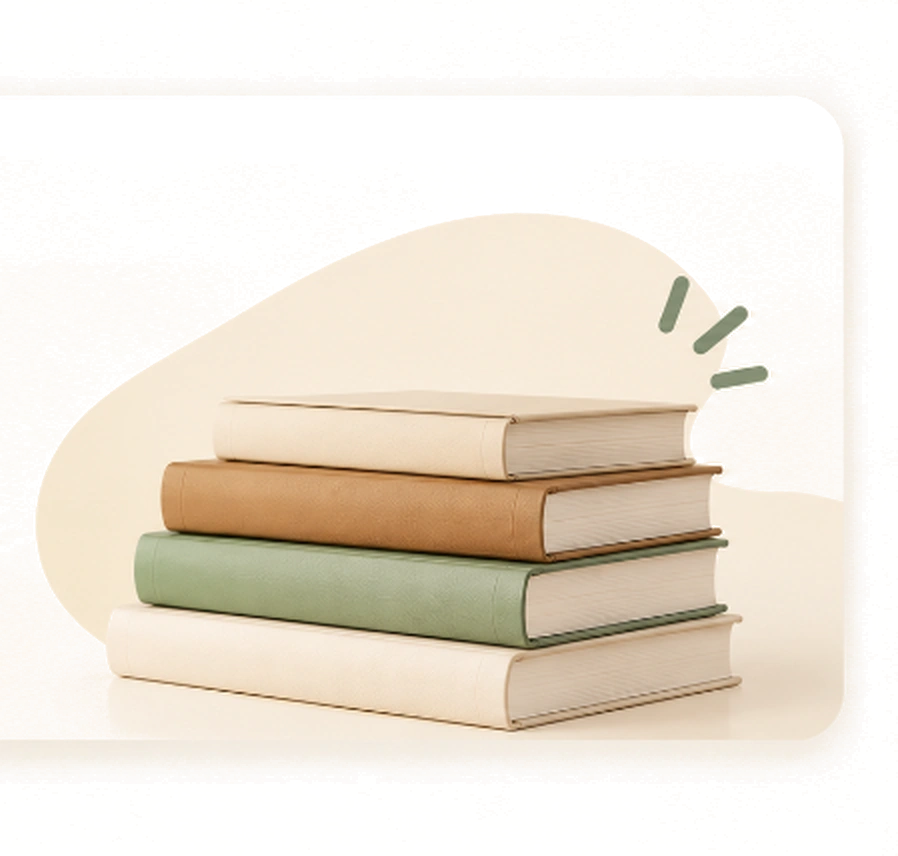
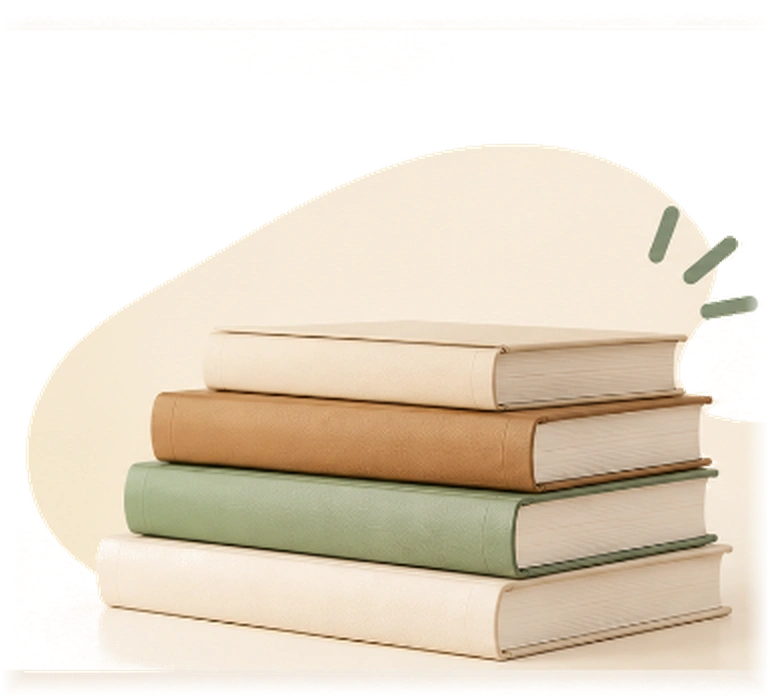
fix(academics): compact hero card sizing and clean book illustration transparency

diff --git a/src/components/academics/AcademicsHero.css b/src/components/academics/AcademicsHero.css
@@ -1,29 +1,29 @@
 .academics-hero-section {
-  padding-top: clamp(16px, 2.5vw, 36px);
-  padding-bottom: clamp(20px, 3.5vw, 44px);
+  padding-top: clamp(10px, 1.6vw, 22px);
+  padding-bottom: clamp(14px, 2.2vw, 28px);
 }
 
 .academics-hero-card {
   position: relative;
   background-color: #FAF5EB;
   border: 1px solid #EFE5D2;
-  border-radius: clamp(24px, 3.5vw, 40px);
-  padding: clamp(24px, 3.8vw, 48px);
-  box-shadow: 0 10px 32px rgba(220, 190, 150, 0.12);
+  border-radius: clamp(20px, 2.8vw, 34px);
+  padding: clamp(18px, 2.6vw, 32px) clamp(22px, 3.2vw, 42px);
+  box-shadow: 0 8px 24px rgba(220, 190, 150, 0.10);
   overflow: hidden;
 }
 
 .academics-hero-grid {
   display: grid;
-  grid-template-columns: minmax(0, 1.15fr) minmax(0, 0.85fr);
-  gap: clamp(24px, 3vw, 44px);
+  grid-template-columns: minmax(0, 1.25fr) minmax(0, 0.75fr);
+  gap: clamp(20px, 2.5vw, 36px);
   align-items: center;
 }
 
 @media (max-width: 960px) {
   .academics-hero-grid {
     grid-template-columns: 1fr;
-    gap: 32px;
+    gap: 24px;
   }
 }
 
@@ -31,20 +31,20 @@
   display: flex;
   flex-direction: column;
   align-items: flex-start;
-  gap: 16px;
-  max-width: 550px;
+  gap: 12px;
+  max-width: 540px;
   z-index: 2;
 }
 
 .academics-hero-eyebrow {
   display: inline-flex;
   align-items: center;
-  gap: 8px;
+  gap: 7px;
 }
 
 .academics-hero-dot {
-  width: 7.5px;
-  height: 7.5px;
+  width: 6.5px;
+  height: 6.5px;
   border-radius: 9999px;
   background-color: #F5B82E;
   flex-shrink: 0;
@@ -52,7 +52,7 @@
 
 .academics-hero-eyebrow-text {
   font-family: var(--font-sans, "Plus Jakarta Sans", sans-serif);
-  font-size: 11.5px;
+  font-size: 11px;
   font-weight: 700;
   letter-spacing: 0.09em;
   color: #275F54;
@@ -61,8 +61,8 @@
 
 .academics-hero-title {
   font-family: var(--font-serif, "Playfair Display", Georgia, serif);
-  font-size: clamp(34px, 4.2vw, 54px);
-  line-height: 1.15;
+  font-size: clamp(28px, 3.4vw, 44px);
+  line-height: 1.16;
   letter-spacing: -0.02em;
   color: #0F0401;
   margin: 0;
@@ -74,10 +74,10 @@
 
 .academics-hero-lead {
   font-family: var(--font-sans, "Plus Jakarta Sans", sans-serif);
-  font-size: clamp(15px, 1.2vw, 16.5px);
-  line-height: 1.7;
+  font-size: clamp(14px, 1.05vw, 15.5px);
+  line-height: 1.62;
   color: #3E4E48;
-  max-width: 530px;
+  max-width: 500px;
   margin: 0;
 }
 
@@ -92,9 +92,15 @@
 .academics-hero-img {
   display: block;
   width: 100%;
-  max-width: 480px;
+  max-width: 310px;
   height: auto;
-  aspect-ratio: 898 / 856;
+  aspect-ratio: 770 / 700;
   object-fit: contain;
   user-select: none;
+}
+
+@media (max-width: 640px) {
+  .academics-hero-img {
+    max-width: 240px;
+  }
 }

diff --git a/src/components/academics/AcademicsHero.jsx b/src/components/academics/AcademicsHero.jsx
@@ -39,8 +39,8 @@ export default function AcademicsHero() {
               <img
                 src="/images/academics-hero-art.webp"
                 alt="Illustrated stack of leatherbound books with warm pastel backdrop and radiating burst marks"
-                width={898}
-                height={856}
+                width={770}
+                height={700}
                 className="academics-hero-img"
                 loading="eager"
                 fetchPriority="high"
